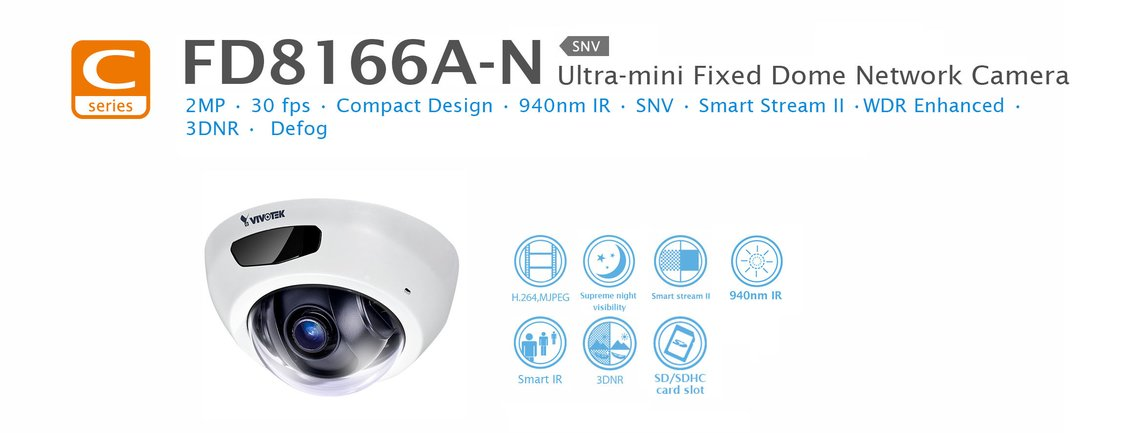
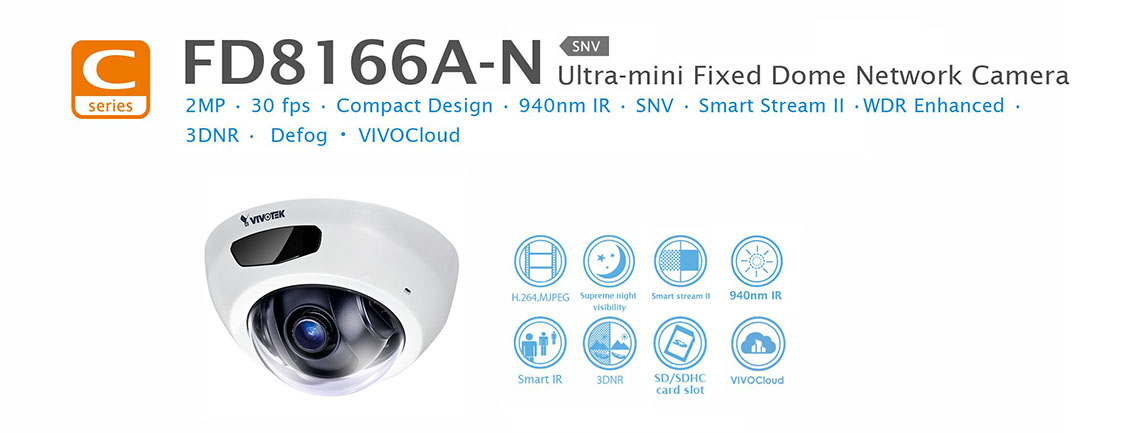
Update VIVOCloud and related pages

diff --git a/fd8167a/index.html b/fd8167a/index.html
@@ -240,6 +240,7 @@ to improve your experience.
                                 <li>Smart Stream II to Optimize Bandwidth Efficiency</li>
                                 <li>3D Noise Reduction</li>
                                 <li>Smart IR Technology to Avoid Overexposure</li>
+                                <li>VIVOCloud Mobile App</li>
                             </ul>
                             <div class="div_clear_18"></div>
                             <h3>Cloud-based Solution</h3>
@@ -744,7 +745,7 @@ to improve your experience.
                                             Operating System
                                         </td>
                                         <td>
-                                            Microsoft Windows 8/7/Vista/XP/2000
+                                            Microsoft Windows 8/7
                                         </td>
                                     </tr>
                                     <tr>
@@ -753,7 +754,7 @@ to improve your experience.
                                         </td>
                                         <td>
                                             Mozilla Firefox 7~43 (streaming only)
-                                            <br/> Internet Explorer 7/8/9/10/11
+                                            <br/> Internet Explorer 10/11
                                         </td>
                                     </tr>
                                     <tr>
@@ -867,11 +868,11 @@ to improve your experience.
                                             <div class="dl_btn">
                                                 <a href="http://download.vivotek.com/downloadfile/downloads/datasheets/fd8167adatasheet_en.pdf" target="_blank" class="btn btn-default btn-sm">English</a>
                                                 <!-- <a href="http://download.vivotek.com/downloadfile/downloads/datasheets/fd8167adatasheet_de.pdf" target="_blank" class="btn btn-default btn-sm">Deutsch</a>
-                      <a href="http://download.vivotek.com/downloadfile/downloads/datasheets/fd8167adatasheet_es.pdf" target="_blank" class="btn btn-default btn-sm">Español</a> -->
+                                                      <a href="http://download.vivotek.com/downloadfile/downloads/datasheets/fd8167adatasheet_es.pdf" target="_blank" class="btn btn-default btn-sm">Español</a> -->
                                                 <!-- <a href="http://download.vivotek.com/downloadfile/downloads/datasheets/fd8167adatasheet_fr.pdf" target="_blank" class="btn btn-default btn-sm">Français</a> -->
                                                 <!-- <a href="http://download.vivotek.com/downloadfile/downloads/datasheets/fd8167adatasheet_it.pdf" target="_blank" class="btn btn-default btn-sm">Italiano</a>
-                      <a href="http://download.vivotek.com/downloadfile/downloads/datasheets/fd8167adatasheet_pt.pdf" target="_blank" class="btn btn-default btn-sm">Português</a>
-                      <a href="http://download.vivotek.com/downloadfile/downloads/datasheets/fd8167adatasheet_ru.pdf" target="_blank" class="btn btn-default btn-sm">Русский</a> -->
+                                                     <a href="http://download.vivotek.com/downloadfile/downloads/datasheets/fd8167adatasheet_pt.pdf" target="_blank" class="btn btn-default btn-sm">Português</a>
+                                                     <a href="http://download.vivotek.com/downloadfile/downloads/datasheets/fd8167adatasheet_ru.pdf" target="_blank" class="btn btn-default btn-sm">Русский</a> -->
                                                 <!-- <a href="http://download.vivotek.com/downloadfile/downloads/datasheets/fd8167adatasheet_tw.pdf" target="_blank" class="btn btn-default btn-sm">繁體中文</a> -->
                                                 <!-- <a href="http://download.vivotek.com/downloadfile/downloads/datasheets/fd8167adatasheet_cn.pdf" target="_blank" class="btn btn-default btn-sm">简体中文</a> -->
                                             </div>
@@ -891,16 +892,16 @@ to improve your experience.
                                     </div>
                                     <!-- PLUGIN -->
                                     <!-- <div class="list-item box">
-                  <div class="img"><img data-file-extension="PI" data-src="/image/all/iconic/svg/smart/file.svg" class="iconic iconic-md iconic-size-lg" alt="file"></div>
-                  <div class="block">
-                    <h1 class="jplist_dl_title">Plug-in</h1>
-                    <div class="dl_btn">
-                      <a href="http://download.vivotek.com/downloadfile/downloads/plugin/vivotek_milestone_fisheye_plugin_x64.zip" target="_blank" class="btn btn-default btn-sm">Milestone Enhancer x64</a>
-                      <a href="http://download.vivotek.com/downloadfile/downloads/plugin/vivotek_milestone_fisheye_plugin_x86.zip" target="_blank" class="btn btn-default btn-sm">Milestone Enhancer x86</a>
-                    </div>
-                    <div class="div_clear_18"></div>
-                  </div>
-                </div> -->
+                                      <div class="img"><img data-file-extension="PI" data-src="/image/all/iconic/svg/smart/file.svg" class="iconic iconic-md iconic-size-lg" alt="file"></div>
+                                      <div class="block">
+                                        <h1 class="jplist_dl_title">Plug-in</h1>
+                                        <div class="dl_btn">
+                                          <a href="http://download.vivotek.com/downloadfile/downloads/plugin/vivotek_milestone_fisheye_plugin_x64.zip" target="_blank" class="btn btn-default btn-sm">Milestone Enhancer x64</a>
+                                          <a href="http://download.vivotek.com/downloadfile/downloads/plugin/vivotek_milestone_fisheye_plugin_x86.zip" target="_blank" class="btn btn-default btn-sm">Milestone Enhancer x86</a>
+                                        </div>
+                                        <div class="div_clear_18"></div>
+                                      </div>
+                                    </div> -->
                                     <!-- PHOTOS -->
                                     <div class="list-item box">
                                         <div class="img"><img data-file-extension="PIC" data-src="/image/all/iconic/svg/smart/file.svg" class="iconic iconic-md iconic-size-lg" alt="file"></div>
@@ -914,15 +915,15 @@ to improve your experience.
                                     </div>
                                     <!-- SOFTWARE -->
                                     <!-- <div class="list-item box">
-                  <div class="img"><img data-file-extension="VAST" data-src="/image/all/iconic/svg/smart/file.svg" class="iconic iconic-md iconic-size-lg" alt="file"></div>
-                  <div class="block">
-                    <h1 class="jplist_dl_title">VAST</h1>
-                    <div class="dl_btn">
-                      <a href="http://download.vivotek.com/downloadfile/downloads/software/vast_aio.zip" target="_blank" class="btn btn-default btn-sm">AIO 1.9.0.8</a>
-                    </div>
-                    <div class="div_clear_18"></div>
-                  </div>
-                </div> -->
+                                      <div class="img"><img data-file-extension="VAST" data-src="/image/all/iconic/svg/smart/file.svg" class="iconic iconic-md iconic-size-lg" alt="file"></div>
+                                      <div class="block">
+                                        <h1 class="jplist_dl_title">VAST</h1>
+                                        <div class="dl_btn">
+                                          <a href="http://download.vivotek.com/downloadfile/downloads/software/vast_aio.zip" target="_blank" class="btn btn-default btn-sm">AIO 1.9.0.8</a>
+                                        </div>
+                                        <div class="div_clear_18"></div>
+                                      </div>
+                                    </div> -->
                                     <!-- FLYER -->
                                     <div class="list-item list-item-img box">
                                         <div class="img"><img data-file-extension="Flyer" src="/image/downloads/flyer/v-pro_lite_line_flyer.jpg" alt="V-Pro Lite Line Flyer"></div>
@@ -942,19 +943,19 @@ to improve your experience.
                                             <div class="dl_btn">
                                                 <a href="http://download.vivotek.com/downloadfile/downloads/quickguides/fd8167aguide_en.pdf" target="_blank" class="btn btn-default btn-sm">English</a>
                                                 <!-- <a href="http://download.vivotek.com/downloadfile/downloads/quickguides/fd8167aguide_ar.pdf" target="_blank" class="btn btn-default btn-sm">العربية</a>
-                      <a href="http://download.vivotek.com/downloadfile/downloads/quickguides/fd8167aguide_cs.pdf" target="_blank" class="btn btn-default btn-sm">Čeština</a>
-                      <a href="http://download.vivotek.com/downloadfile/downloads/quickguides/fd8167aguide_de.pdf" target="_blank" class="btn btn-default btn-sm">Deutsch</a>
-                      <a href="http://download.vivotek.com/downloadfile/downloads/quickguides/fd8167aguide_es.pdf" target="_blank" class="btn btn-default btn-sm">Español</a>
-                      <a href="http://download.vivotek.com/downloadfile/downloads/quickguides/fd8167aguide_it.pdf" target="_blank" class="btn btn-default btn-sm">Italiano</a>
-                      <a href="http://download.vivotek.com/downloadfile/downloads/quickguides/fd8167aguide_fr.pdf" target="_blank" class="btn btn-default btn-sm">Français</a>
-                      <a href="http://download.vivotek.com/downloadfile/downloads/quickguides/fd8167aguide_jp.pdf" target="_blank" class="btn btn-default btn-sm">日本语</a>
-                      <a href="http://download.vivotek.com/downloadfile/downloads/quickguides/fd8167aguide_pl.pdf" target="_blank" class="btn btn-default btn-sm">Polski</a>
-                      <a href="http://download.vivotek.com/downloadfile/downloads/quickguides/fd8167aguide_pt.pdf" target="_blank" class="btn btn-default btn-sm">Português</a>
-                      <a href="http://download.vivotek.com/downloadfile/downloads/quickguides/fd8167aguide_ru.pdf" target="_blank" class="btn btn-default btn-sm">Русский</a>
-                      <a href="http://download.vivotek.com/downloadfile/downloads/quickguides/fd8167aguide_sv.pdf" target="_blank" class="btn btn-default btn-sm">Svenska</a>
-                      <a href="http://download.vivotek.com/downloadfile/downloads/quickguides/fd8167aguide_tu.pdf" target="_blank" class="btn btn-default btn-sm">Türk</a>
-                      <a href="http://download.vivotek.com/downloadfile/downloads/quickguides/fd8167aguide_tw.pdf" target="_blank" class="btn btn-default btn-sm">繁體中文</a>
-                      <a href="http://download.vivotek.com/downloadfile/downloads/quickguides/fd8167aguide_cn.pdf" target="_blank" class="btn btn-default btn-sm">简体中文</a> -->
+                                                     <a href="http://download.vivotek.com/downloadfile/downloads/quickguides/fd8167aguide_cs.pdf" target="_blank" class="btn btn-default btn-sm">Čeština</a>
+                                                     <a href="http://download.vivotek.com/downloadfile/downloads/quickguides/fd8167aguide_de.pdf" target="_blank" class="btn btn-default btn-sm">Deutsch</a>
+                                                     <a href="http://download.vivotek.com/downloadfile/downloads/quickguides/fd8167aguide_es.pdf" target="_blank" class="btn btn-default btn-sm">Español</a>
+                                                     <a href="http://download.vivotek.com/downloadfile/downloads/quickguides/fd8167aguide_it.pdf" target="_blank" class="btn btn-default btn-sm">Italiano</a>
+                                                     <a href="http://download.vivotek.com/downloadfile/downloads/quickguides/fd8167aguide_fr.pdf" target="_blank" class="btn btn-default btn-sm">Français</a>
+                                                     <a href="http://download.vivotek.com/downloadfile/downloads/quickguides/fd8167aguide_jp.pdf" target="_blank" class="btn btn-default btn-sm">日本语</a>
+                                                     <a href="http://download.vivotek.com/downloadfile/downloads/quickguides/fd8167aguide_pl.pdf" target="_blank" class="btn btn-default btn-sm">Polski</a>
+                                                     <a href="http://download.vivotek.com/downloadfile/downloads/quickguides/fd8167aguide_pt.pdf" target="_blank" class="btn btn-default btn-sm">Português</a>
+                                                     <a href="http://download.vivotek.com/downloadfile/downloads/quickguides/fd8167aguide_ru.pdf" target="_blank" class="btn btn-default btn-sm">Русский</a>
+                                                     <a href="http://download.vivotek.com/downloadfile/downloads/quickguides/fd8167aguide_sv.pdf" target="_blank" class="btn btn-default btn-sm">Svenska</a>
+                                                     <a href="http://download.vivotek.com/downloadfile/downloads/quickguides/fd8167aguide_tu.pdf" target="_blank" class="btn btn-default btn-sm">Türk</a>
+                                                     <a href="http://download.vivotek.com/downloadfile/downloads/quickguides/fd8167aguide_tw.pdf" target="_blank" class="btn btn-default btn-sm">繁體中文</a>
+                                                     <a href="http://download.vivotek.com/downloadfile/downloads/quickguides/fd8167aguide_cn.pdf" target="_blank" class="btn btn-default btn-sm">简体中文</a> -->
                                             </div>
                                             <div class="div_clear_18"></div>
                                         </div>

diff --git a/fd8166a-n/index.html b/fd8166a-n/index.html
@@ -265,6 +265,7 @@ to improve your experience.
             <li>Built-in MicroSD/SDHC/SDXC Card Slot for On-board Storage</li>
             <li>Compact and Stylish Design</li>
             <li>Easy Installation</li>
+            <li>VIVOCloud Mobile App</li>
           </ul>
           <div class="div_clear_18"></div>
 
@@ -698,15 +699,6 @@ to improve your experience.
                   Five-window video motion detection
                 </td>
               </tr>
-              <tr>
-                <td>
-                  VCA
-                </td>
-                <td>
-                  Line crossing detection, field detection, loitering detection<br>
-                  *Available per project request.
-                </td>
-              </tr>
               <tr class="spec_cal">
                 <td>
                   Alarm and Event
@@ -828,7 +820,7 @@ to improve your experience.
                   Operating System
                 </td>
                 <td>
-                  Microsoft Windows 7/Vista/XP/2000
+                  Microsoft Windows 8/7
                 </td>
               </tr>
               <tr>
@@ -837,7 +829,7 @@ to improve your experience.
                 </td>
                 <td>
                   Mozilla Firefox 7~43 (Streaming only)<br>
-                  Internet Explorer 7/8/9/10/11
+                  Internet Explorer 10/11
                 </td>
               </tr>
               <tr>

diff --git a/fd8166a/index.html b/fd8166a/index.html
@@ -245,6 +245,7 @@ to improve your experience.
             <li>Defog</li>
             <li>Compact and Stylish Design</li>
             <li>Easy Installation</li>
+            <li>VIVOCloud Mobile App</li>
           </ul>
           <div class="div_clear_18"></div>
 
@@ -659,14 +660,6 @@ to improve your experience.
               Five-window video motion detection
             </td>
           </tr>
-          <tr>
-            <td>
-              VCA*
-            </td>
-            <td>
-              Line crossing detection, field detection, loitering detection
-            </td>
-          </tr>
           <tr class="spec_cal">
             <td>
               Alarm and Event
@@ -789,7 +782,7 @@ to improve your experience.
               Operating System
             </td>
             <td>
-              Microsoft Windows 8/7/Vista/XP/2000
+              Microsoft Windows 8/7
             </td>
           </tr>
           <tr>
@@ -798,7 +791,7 @@ to improve your experience.
             </td>
             <td>
               Mozilla Firefox 7~43 (streaming only)<br/>
-              Internet Explorer 7/8/9/10/11
+              Internet Explorer 10/11
             </td>
           </tr>
           <tr>

diff --git a/ib8369a/index.html b/ib8369a/index.html
@@ -242,6 +242,7 @@ to improve your experience.
             <li>3D Noise Reduction</li>
             <li>Smart IR Technology to Avoid Overexposure</li>
             <li>SNV (Supreme Night Visibility) for Low Light Conditions</li>
+            <li>VIVOCloud Mobile App</li>
           </ul>
           <div class="div_clear_18"></div>
 
@@ -763,7 +764,7 @@ to improve your experience.
               Operating System
             </td>
             <td>
-              Microsoft Windows 8/7/Vista/XP/2000
+              Microsoft Windows 8/7
             </td>
           </tr>
           <tr>
@@ -772,7 +773,7 @@ to improve your experience.
             </td>
             <td>
               Mozilla Firefox 7~43 (streaming only)<br/>
-              Internet Explorer 7/8/9/10/11
+              Internet Explorer 10/11
             </td>
           </tr>
           <tr>

diff --git a/fd8169a/index.html b/fd8169a/index.html
@@ -242,6 +242,7 @@ to improve your experience.
             <li>Smart Stream II to Optimize Bandwidth Efficiency</li>
             <li>3D Noise Reduction</li>
             <li>Smart IR Technology to Avoid Overexposure</li>
+            <li>VIVOCloud Mobile App</li>
           </ul>
           <div class="div_clear_18"></div>
 
@@ -754,7 +755,7 @@ to improve your experience.
               Operating System
             </td>
             <td>
-              Microsoft Windows 8/7/Vista/XP/2000
+              Microsoft Windows 8/7
             </td>
           </tr>
           <tr>
@@ -763,7 +764,7 @@ to improve your experience.
             </td>
             <td>
               Mozilla Firefox 7~43 (streaming only)<br/>
-              Internet Explorer 7/8/9/10/11
+              Internet Explorer 10/11
             </td>
           </tr>
           <tr>

diff --git a/fd8367a-v/index.html b/fd8367a-v/index.html
@@ -243,6 +243,7 @@ to improve your experience.
             <li>3D Noise Reduction</li>
             <li>Smart IR Technology to Avoid Overexposure</li>
             <li>SNV (Supreme Night Visibility)</li>
+            <li>VIVOCloud Mobile App</li>
           </ul>
           <div class="div_clear_18"></div>
 
@@ -772,7 +773,7 @@ to improve your experience.
               Operating System
             </td>
             <td>
-              Microsoft Windows 8/7/Vista/XP/2000
+              Microsoft Windows 8/7
             </td>
           </tr>
           <tr>
@@ -781,7 +782,7 @@ to improve your experience.
             </td>
             <td>
               Mozilla Firefox 7~43 (streaming only)<br/>
-              Internet Explorer 7/8/9/10/11
+              Internet Explorer 10/11
             </td>
           </tr>
           <tr>

diff --git a/fd8369a-v/index.html b/fd8369a-v/index.html
@@ -245,6 +245,7 @@ to improve your experience.
             <li>3D Noise Reduction</li>
             <li>Smart IR Technology to Avoid Overexposure</li>
             <li>SNV (Supreme Night Visibility)</li>
+            <li>VIVOCloud Mobile App</li>
           </ul>
           <div class="div_clear_18"></div>
 
@@ -766,7 +767,7 @@ to improve your experience.
               Operating System
             </td>
             <td>
-              Microsoft Windows 8/7/Vista/XP/2000
+              Microsoft Windows 8/7
             </td>
           </tr>
           <tr>
@@ -775,7 +776,7 @@ to improve your experience.
             </td>
             <td>
               Mozilla Firefox 7~43 (streaming only)<br/>
-              Internet Explorer 7/8/9/10/11
+              Internet Explorer 10/11
             </td>
           </tr>
           <tr>

diff --git a/ib8367a/index.html b/ib8367a/index.html
@@ -242,6 +242,7 @@ to improve your experience.
             <li>3D Noise Reduction</li>
             <li>Smart IR Technology to Avoid Overexposure</li>
             <li>SNV (Supreme Night Visibility)</li>
+            <li>VIVOCloud Mobile App</li>
           </ul>
           <div class="div_clear_18"></div>
 
@@ -771,7 +772,7 @@ to improve your experience.
               Operating System
             </td>
             <td>
-              Microsoft Windows 8/7/Vista/XP/2000
+              Microsoft Windows 8/7
             </td>
           </tr>
           <tr>
@@ -780,7 +781,7 @@ to improve your experience.
             </td>
             <td>
               Mozilla Firefox 7~43 (streaming only)<br/>
-              Internet Explorer 7/8/9/10/11
+              Internet Explorer 10/11
             </td>
           </tr>
           <tr>
